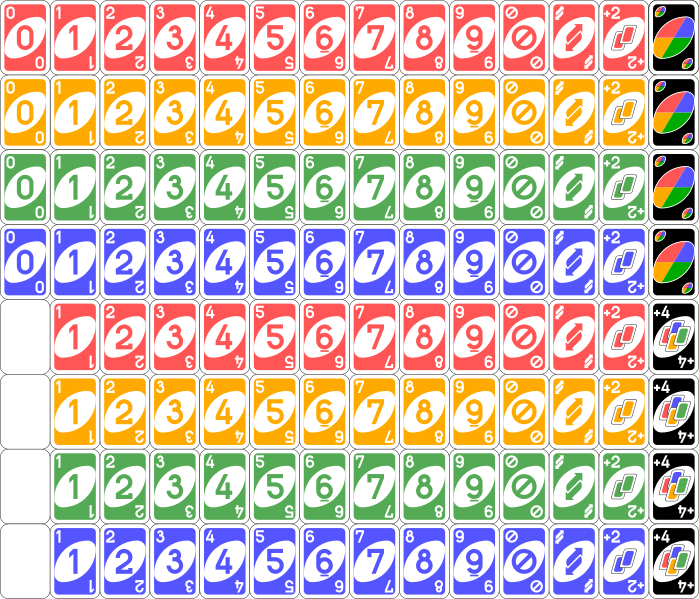
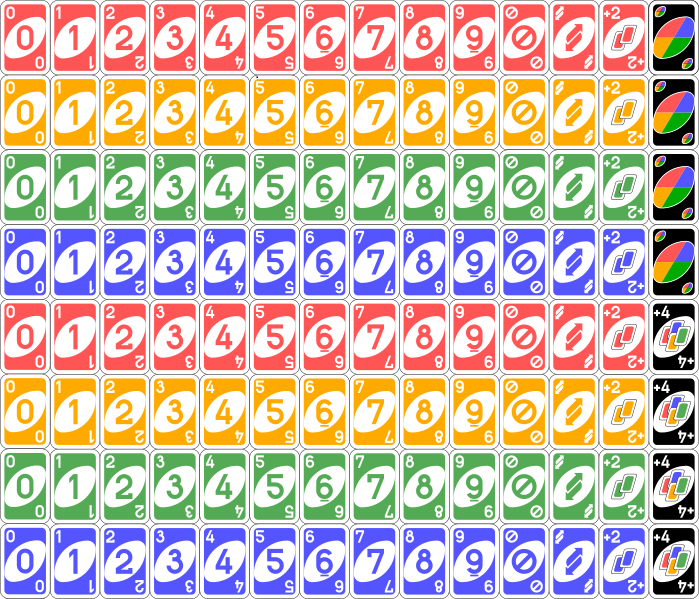
fix random cards

Changed region(s): [[0.0, 0.4808, 0.0901, 1.0]]

diff --git a/src/components/base/index.js b/src/components/base/index.js
@@ -1,30 +1,90 @@
-import React from 'react';
+import React, {createRef} from 'react';
 import './index.css';
+import * as uuid from 'uuid';
 
-// import uno_sprite from '../../assets/uno_sprite.png';
-const cols = [0, 1, 2, 3, 4, 5, 6, 7, 8, 9, 10, 11, 12, 13];
-const rows = [0, 1, 2, 3, 4, 5, 6, 7, 8];
-const generateCssBackgroundSize = row => {
-  return cols.map(elem => (
-    <div
-      className="sprite"
-      style={{
-        width: '40px',
-        height: '80px',
-        backgroundPosition: `${elem * 7.75}% ${row * 0.1}%`,
-      }}
-    ></div>
-  ));
-};
+class BaseScene extends React.Component {
+  constructor(props) {
+    super(props);
+    this.props = props;
+    this.generateCards = this.generateCards.bind(this);
+    this.cols = [0, 1, 2, 3, 4, 5, 6, 7, 8, 9, 10, 11, 12, 13];
+    this.rows = [0, 1, 2, 3, 4, 5, 6, 7];
+    this.players = 0;
+    this.playCards = 0;
+    this.storeCards = [];
+    this.state = {
+      saveCards: [],
+    };
+    this.cardRef = createRef();
+    this.playerRef = createRef();
+  }
 
-function BaseScene() {
-  return (
-    <div>
-      {rows.map(row => (
-        generateCssBackgroundSize(row)
-      ))}
-    </div>
-  );
+  componentDidMount() {
+    this.generateCssBackgroundSize();
+  }
+
+  randomIntFromInterval(min, max) {
+    // min and max included
+    return Math.floor(Math.random() * (max - min + 1) + min);
+  }
+
+  generateCards() {
+    let storeCards = [];
+    this.setState(
+      {saveCards: [], playCards: this.cardRef.current.value},
+      () => {
+        for (let i = 0; i < this.playerRef.current.value; i++) {
+          for (let j = 0; j < this.state.playCards; j++) {
+            const randomNum = this.randomIntFromInterval(
+              0,
+              this.storeCards.length
+            );
+            // console.log(this.storeCards[randomNum]);
+            storeCards.push(this.storeCards[randomNum]);
+          }
+        }
+        this.setState({
+          saveCards: storeCards,
+        });
+      }
+    );
+  }
+
+  generateCssBackgroundSize = () => {
+    this.rows.forEach(row => {
+      this.cols.forEach(col => {
+        this.storeCards.push(
+          <div
+            className="sprite"
+            key={
+              Math.random()
+                .toString(36)
+                .substring(7) + uuid.v4()
+            }
+            style={{
+              width: '40px',
+              height: '80px',
+              backgroundPosition: `${col * 7.75}% ${row * 14.3}%`,
+            }}
+          ></div>
+        );
+      });
+    });
+  };
+
+  render() {
+    return (
+      <div>
+        Enter Number of Cards:{' '}
+        <input type="text" id="cards" ref={this.cardRef} />
+        Enter Number of Players:{' '}
+        <input type="text" id="players" ref={this.playerRef} />
+        <button onClick={this.generateCards}>Generate</button>
+        <br />
+        {this.state.saveCards.map(card => card)}
+      </div>
+    );
+  }
 }
 
 export default BaseScene;

diff --git a/src/components/base/index.css b/src/components/base/index.css
@@ -9,12 +9,3 @@ div {
   background: url(../../assets/uno.png) 0 0 no-repeat;
   background-size: 1400% 800%;
 }
-.zero {
-  background-position: 0% 0%;
-}
-.one {
-    background-position: 8% 0%;
-}
-.two {
-    background-position: 16% 0%;
-}
